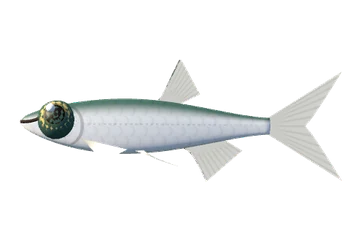
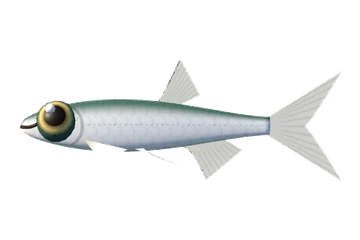
The bleak's head and picture
Claude-Session: https://claude.ai/code/session_019sVPTkk8NWGF5qLvLgiKew

diff --git a/web3d/src/fish.js b/web3d/src/fish.js
@@ -111,9 +111,9 @@ export const FISH = {
     col: { back: '#36412f', side: '#b4b293', belly: '#ede6cf' }, fins: { all: '#3c3b30', a: '#d76a34', v: '#d97a3c', p: '#c9884a' },
     scale: [14, 0.75], gill: 0.27 },
   bleak: { water: 'river', rare: 0, L: 0.16, cm: [8, 15], names: ['Bleak', 'Ablette'],
-    body: { H: 0.22, sH: 0.42, p: 0.6, ped: 0.3, hump: 0.5, W: 0.4, mouth: 0.25, tail: 0.22 },
+    body: { H: 0.21, sH: 0.4, p: 0.52, ped: 0.34, hump: 0.52, W: 0.5, mouth: 0.0, tail: 0.22 },
     dorsal: [[0.54, 0.64, 0.18]], anal: [0.64, 0.82, 0.14, 'long'], pelvic: 0.46, pect: 0.24, tailShape: 'fork',
-    eye: { k: 0.062, iris: '#e0c470' },
+    eye: { k: 0.066, iris: '#e0c470' },
     col: { back: '#3f6a5e', side: '#e4ecee', belly: '#fbfbf8' }, fins: { all: '#d9dcd2' },
     scale: [20, 0.3], gill: 0.25, line: [0.5, 0.06] },
   barbel: { water: 'river', rare: 0, L: 0.44, cm: [35, 70], names: ['Barbel', 'Barbeau'],
